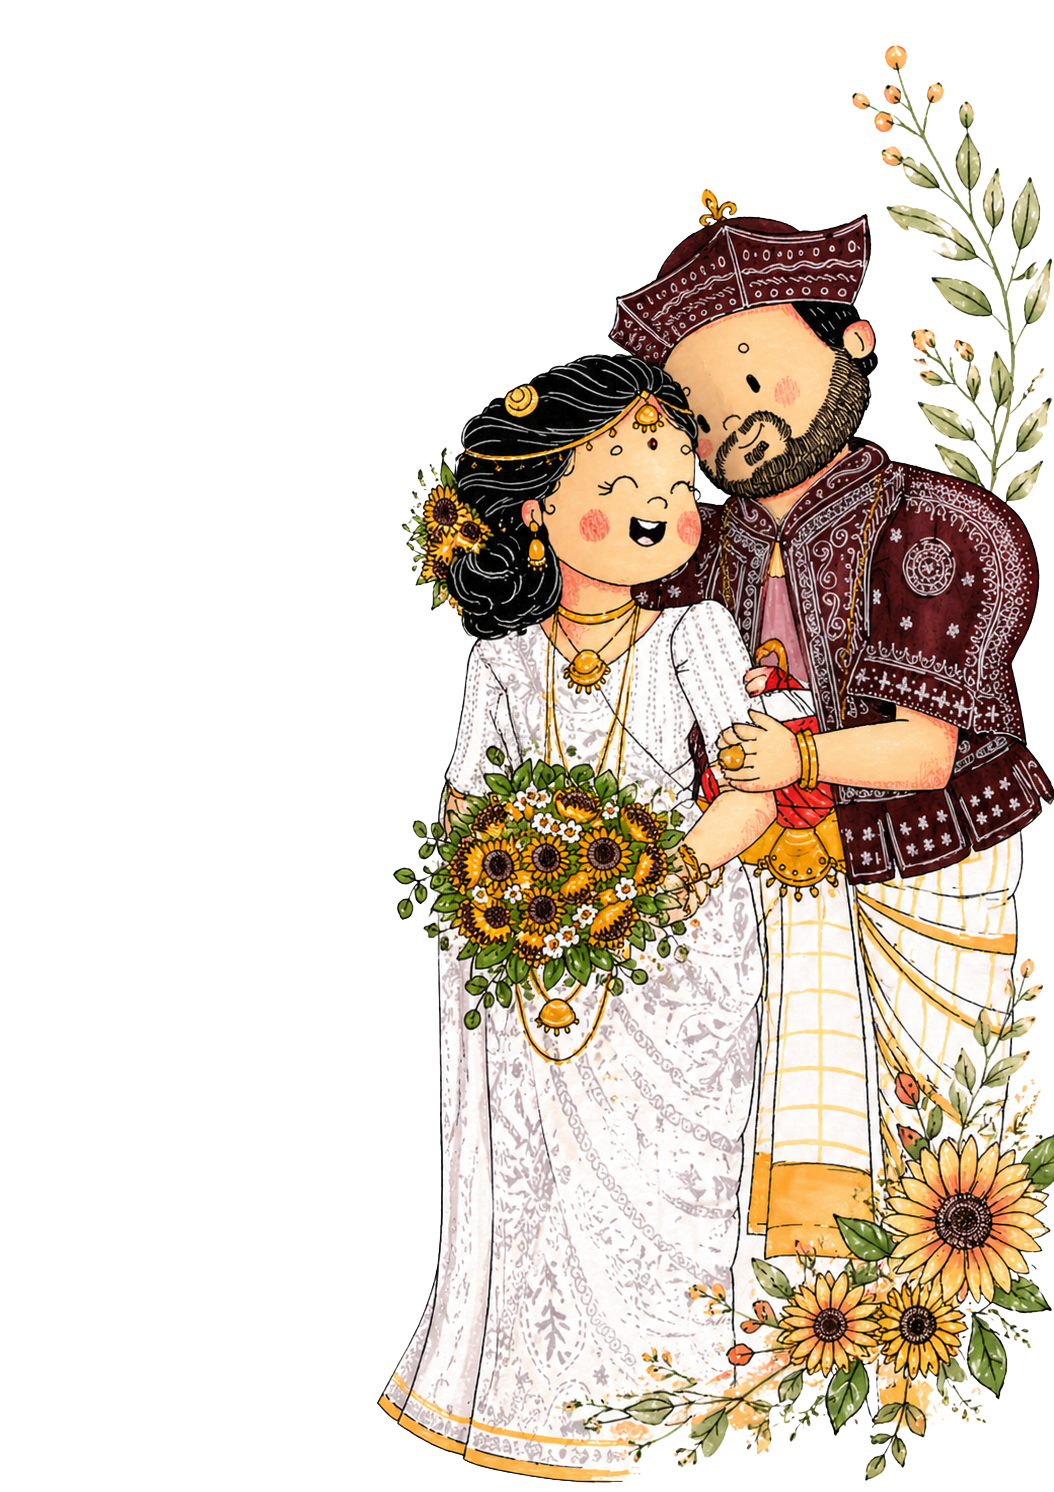
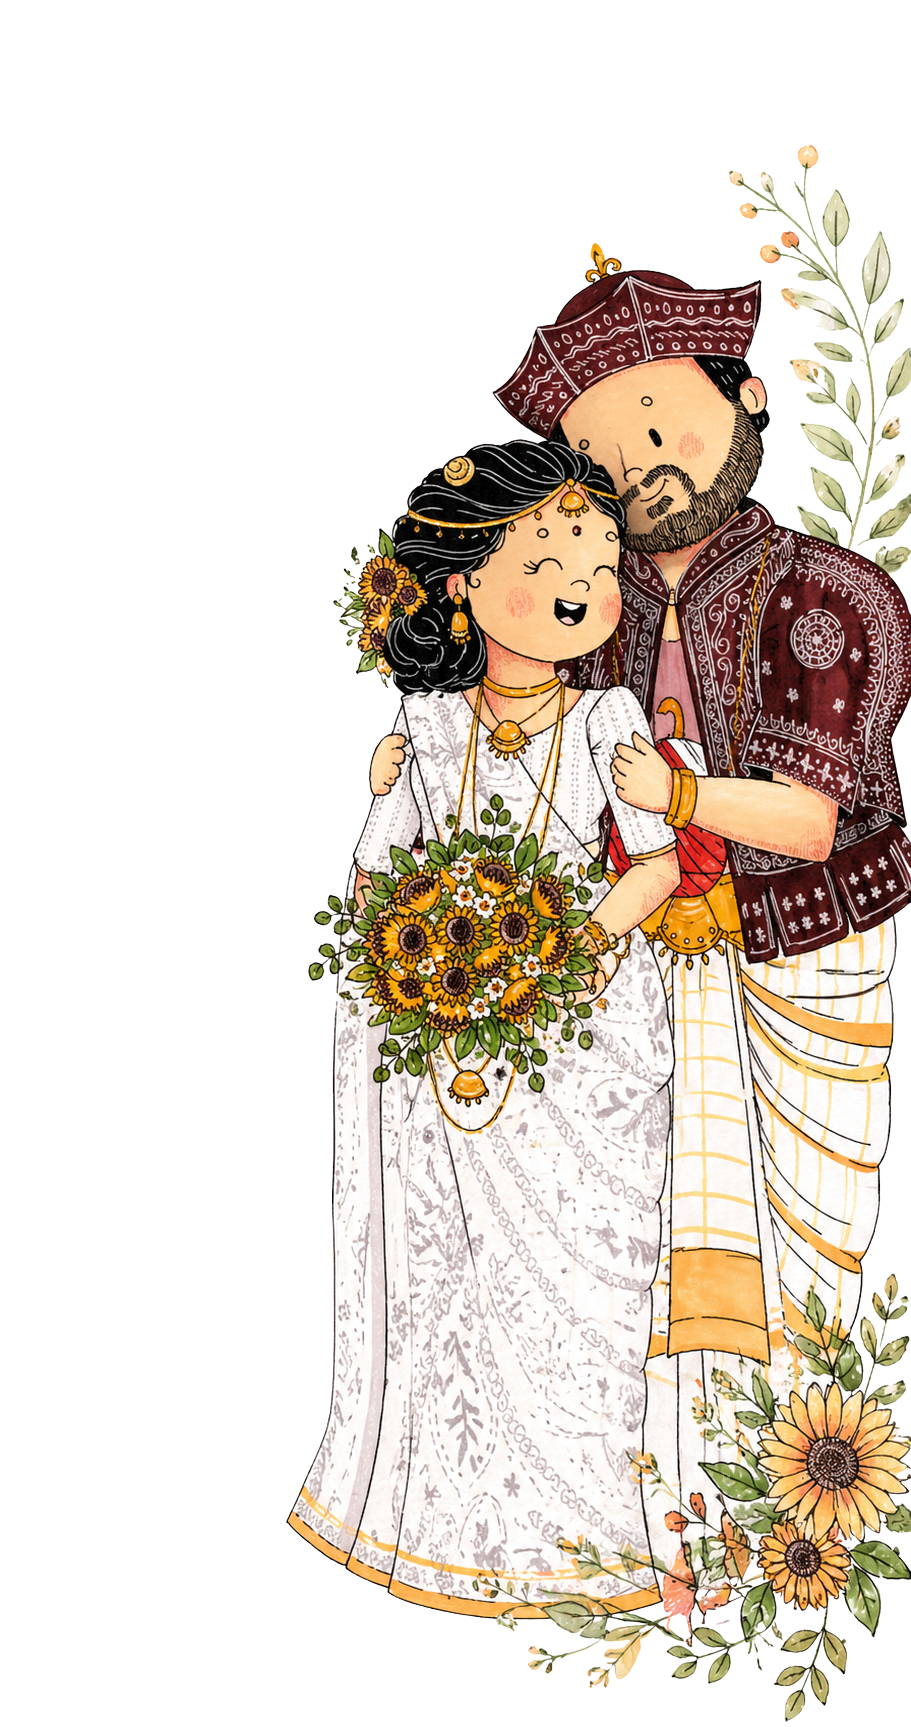
update the album section

diff --git a/app/components/PhotoAlbum.jsx b/app/components/PhotoAlbum.jsx
@@ -1,0 +1,89 @@
+"use client";
+import { useState, useEffect } from "react";
+import Image from "next/image";
+
+const images = [
+    "/image 1.jpeg",
+    "/image 1 - Copy (2).jpeg",
+    "/image 1 - Copy.jpeg"
+];
+
+export default function PhotoAlbum() {
+    const [currentIndex, setCurrentIndex] = useState(0);
+
+    useEffect(() => {
+        const timer = setInterval(() => {
+            setCurrentIndex((prevIndex) => (prevIndex + 1) % images.length);
+        }, 4000); // Change photo every 4 seconds
+
+        return () => clearInterval(timer);
+    }, []);
+
+    return (
+        <section className="py-14 sm:py-20 text-center px-4 sm:px-6 w-full flex justify-center relative z-10">
+            <div className="max-w-5xl w-full">
+                <h2 className="text-3xl sm:text-4xl font-bold text-[#4f6f2f] mb-10 sm:mb-12 drop-shadow-sm">
+                    Captured Moments
+                </h2>
+
+                <div className="relative mx-auto w-[560px] max-w-full h-[760px] rounded-3xl overflow-hidden shadow-2xl bg-white/80 border-8 border-white/60 group">
+                    {images.map((src, index) => (
+                        <div
+                            key={index}
+                            className="absolute inset-0 transition-transform duration-1000 ease-in-out"
+                            style={{ transform: `translateX(${(index - currentIndex) * 100}%)` }}
+                        >
+                            <Image
+                                src={src}
+                                alt={`Wedding moment ${index + 1}`}
+                                fill
+                                className="object-cover"
+                                sizes="(max-width: 768px) 100vw, (max-width: 1200px) 80vw, 1000px"
+                                priority={index === 0}
+                            />
+                        </div>
+                    ))}
+
+                    {/* Decorative Corner Overlays */}
+                    <div className="absolute top-0 left-0 w-32 h-32 bg-gradient-to-br from-black/20 to-transparent z-20 pointer-events-none"></div>
+                    <div className="absolute bottom-0 right-0 w-32 h-32 bg-gradient-to-tl from-black/20 to-transparent z-20 pointer-events-none"></div>
+
+                    {/* Navigation Dots */}
+                    <div className="absolute bottom-6 left-1/2 -translate-x-1/2 flex gap-3 z-30">
+                        {images.map((_, index) => (
+                            <button
+                                key={index}
+                                onClick={() => setCurrentIndex(index)}
+                                className={`w-3 h-3 rounded-full transition-all duration-300 shadow-sm ${index === currentIndex
+                                        ? "bg-white scale-125 shadow-md"
+                                        : "bg-white/50 hover:bg-white/80"
+                                    }`}
+                                aria-label={`Go to image ${index + 1}`}
+                            />
+                        ))}
+                    </div>
+
+                    {/* Next/Prev buttons visible on hover */}
+                    <button
+                        onClick={() => setCurrentIndex((prevIndex) => (prevIndex - 1 + images.length) % images.length)}
+                        className="absolute left-4 top-1/2 -translate-y-1/2 bg-white/30 hover:bg-white/50 text-white p-2 rounded-full backdrop-blur-sm transition-all opacity-0 group-hover:opacity-100 z-30 shadow-lg"
+                        aria-label="Previous image"
+                    >
+                        <svg xmlns="http://www.w3.org/2000/svg" fill="none" viewBox="0 0 24 24" strokeWidth={2.5} stroke="currentColor" className="w-6 h-6">
+                            <path strokeLinecap="round" strokeLinejoin="round" d="M15.75 19.5L8.25 12l7.5-7.5" />
+                        </svg>
+                    </button>
+                    <button
+                        onClick={() => setCurrentIndex((prevIndex) => (prevIndex + 1) % images.length)}
+                        className="absolute right-4 top-1/2 -translate-y-1/2 bg-white/30 hover:bg-white/50 text-white p-2 rounded-full backdrop-blur-sm transition-all opacity-0 group-hover:opacity-100 z-30 shadow-lg"
+                        aria-label="Next image"
+                    >
+                        <svg xmlns="http://www.w3.org/2000/svg" fill="none" viewBox="0 0 24 24" strokeWidth={2.5} stroke="currentColor" className="w-6 h-6">
+                            <path strokeLinecap="round" strokeLinejoin="round" d="M8.25 4.5l7.5 7.5-7.5 7.5" />
+                        </svg>
+                    </button>
+                </div>
+            </div>
+        </section>
+    );
+}

diff --git a/app/[guest]/page.jsx b/app/[guest]/page.jsx
@@ -1,6 +1,7 @@
 import Countdown from "../components/Countdown";
 import EventDetails from "../components/EventDetails";
 import RSVPForm from "../components/RSVPForm";
+import PhotoAlbum from "../components/PhotoAlbum";
 import { Great_Vibes, Playfair_Display, Inter } from "next/font/google";
 
 const greatVibes = Great_Vibes({
@@ -44,7 +45,7 @@ export default async function GuestInvitation({ params }) {
             ></div>
             <div className="fixed inset-0 bg-gradient-to-b from-[#f8f5ef]/18 via-[#f8f5ef]/14 to-[#f8f5ef]/22 pointer-events-none z-0"></div>
             {/* Hero Section - Full Viewport */}
-            <section className="min-h-screen flex flex-col items-center justify-start px-2 sm:px-4 py-6 sm:py-8 relative overflow-hidden z-10">
+            <section className="sm:min-h-screen flex flex-col items-center justify-start px-2 sm:px-4 py-6 sm:py-8 relative overflow-hidden z-10">
                 {/* Decorative Elements */}
                 <div className="hidden sm:block absolute top-10 left-5 w-8 h-8 text-[#4f6f2f] opacity-40 text-3xl animate-bounce">🌿</div>
                 <div className="hidden sm:block absolute top-20 right-8 w-8 h-8 text-[#d4a574] opacity-40 text-3xl" style={{ animation: "bounce 2s infinite 0.3s" }}>✨</div>
@@ -128,7 +129,7 @@ export default async function GuestInvitation({ params }) {
             </section>
 
             {/* Event Details Section */}
-            <section className="min-h-screen flex flex-col items-center justify-center px-4 py-16 sm:py-20 relative z-10">
+            <section className="flex flex-col items-center justify-center px-4 pt-4 pb-6 sm:pt-6 sm:pb-8 relative z-10">
                 <div className="absolute inset-0 pointer-events-none z-0">
                     <div className="absolute left-2 bottom-6 sm:hidden opacity-70">
                         <img src="/LeftSide2.png" alt="" className="h-40 w-auto mix-blend-multiply" />
@@ -147,6 +148,9 @@ export default async function GuestInvitation({ params }) {
                     <EventDetails />
                 </div>
             </section>
+
+            {/* Photo Album Section */}
+            <PhotoAlbum />
 
             {/* RSVP Section */}
             <section className="min-h-screen flex flex-col items-center justify-center px-4 py-16 sm:py-20 relative z-10">
@@ -200,5 +204,4 @@ export default async function GuestInvitation({ params }) {
             `}</style>
         </main>
     );
-
 }

diff --git a/app/components/EventDetails.jsx b/app/components/EventDetails.jsx
@@ -1,7 +1,7 @@
 export default function EventDetails() {
     return (
-        <section className="py-14 sm:py-20 text-center px-4 sm:px-6">
-            <h2 className="text-3xl sm:text-4xl font-bold text-[#4f6f2f] mb-10 sm:mb-12">
+        <section className="py-6 sm:py-8 text-center px-4 sm:px-6">
+            <h2 className="text-3xl sm:text-4xl font-bold text-[#4f6f2f] mb-6 sm:mb-8">
                 The Ceremony & Celebration
             </h2>
 

diff --git a/app/components/Countdown.jsx b/app/components/Countdown.jsx
@@ -98,7 +98,7 @@ export default function Countdown() {
   return (
     <>
       <style>{countdownStyles}</style>
-      <div className="mt-8 sm:mt-16 grid grid-cols-4 gap-1.5 sm:flex sm:justify-center sm:gap-4 px-2 sm:px-4 w-full max-w-[360px] sm:max-w-none mx-auto">
+      <div className="mt-4 sm:mt-8 grid grid-cols-4 gap-1.5 sm:flex sm:justify-center sm:gap-4 px-2 sm:px-4 w-full max-w-[360px] sm:max-w-none mx-auto">
         {[
           ["Days", timeLeft.days],
           ["Hours", timeLeft.hours],